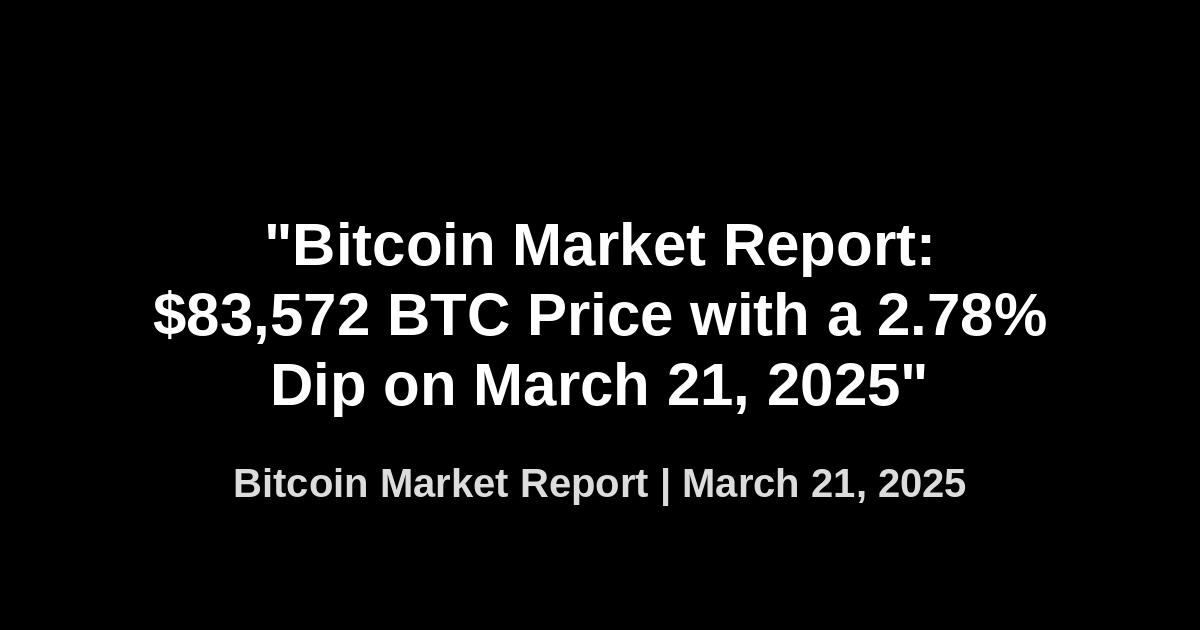
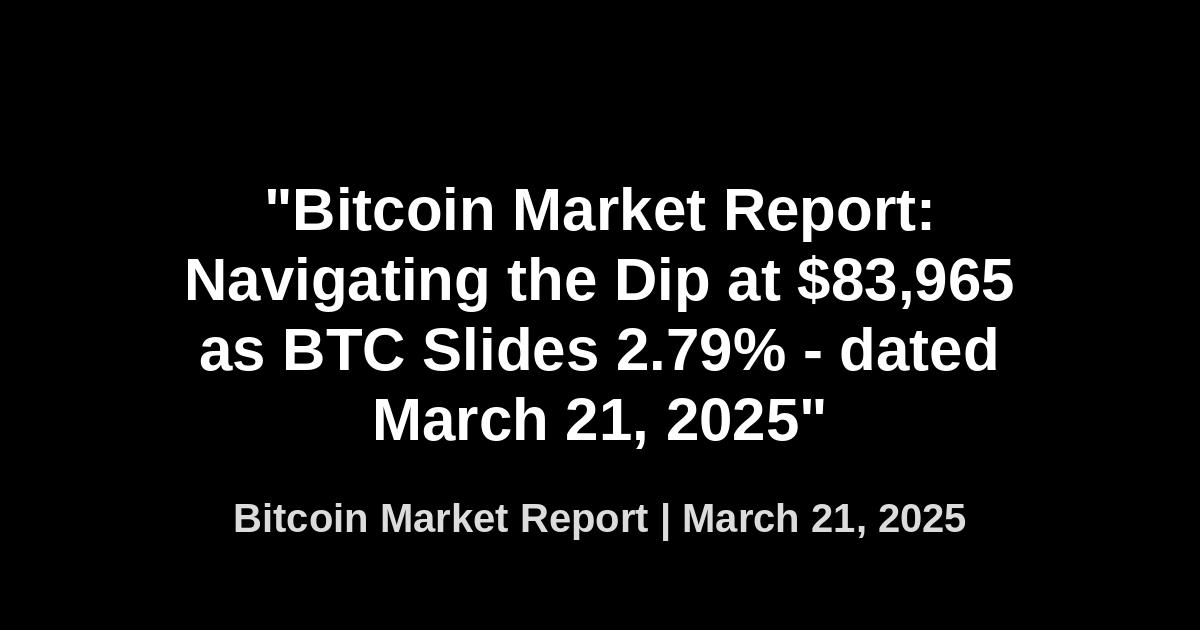
Update Bitcoin market report for

Changed region(s): [[0.1233, 0.3016, 0.8942, 0.8444]]

diff --git a/blog/bitcoin-market-report-2025-03-21/index.html b/blog/bitcoin-market-report-2025-03-21/index.html
@@ -6,8 +6,8 @@
     <meta http-equiv="X-UA-Compatible" content="ie=edge">
     
     <!-- SEO Meta Tags -->
-    <title>"Bitcoin Market Report: $83,572 BTC Price with a 2.78% Dip on March 21, 2025" | Michael J Ditter</title>
-    <meta name="description" content="Explore the latest Bitcoin market trends in our report: $83,572 BTC price with a 2.78% dip on March 21, 2025. Stay informed and make smart investment decisions!">
+    <title>"Bitcoin Market Report: Navigating the Dip at $83,965 as BTC Slides 2.79% - dated March 21, 2025" | Michael J Ditter</title>
+    <meta name="description" content="Stay ahead of the crypto game! Explore key insights from this week's Bitcoin market analysis as BTC experiences a slight dip. Click for more!">
     <meta name="keywords" content="Bitcoin, Cryptocurrency, Market Analysis, Trading, Michael J Ditter">
     <meta name="author" content="Michael J Ditter">
     
@@ -17,10 +17,10 @@
     <!-- Open Graph / Facebook -->
     <meta property="og:type" content="article">
     <meta property="og:url" content="https://www.michaelditter.com/blog/bitcoin-market-report-2025-03-21/">
-    <meta property="og:title" content=""Bitcoin Market Report: $83,572 BTC Price with a 2.78% Dip on March 21, 2025"">
-    <meta property="og:description" content="Explore the latest Bitcoin market trends in our report: $83,572 BTC price with a 2.78% dip on March 21, 2025. Stay informed and make smart investment decisions!">
+    <meta property="og:title" content=""Bitcoin Market Report: Navigating the Dip at $83,965 as BTC Slides 2.79% - dated March 21, 2025"">
+    <meta property="og:description" content="Stay ahead of the crypto game! Explore key insights from this week's Bitcoin market analysis as BTC experiences a slight dip. Click for more!">
     <meta property="og:image" content="https://www.michaelditter.com/img/blog/bitcoin-market-report-2025-03-21.jpg">
-    <meta property="article:published_time" content="2025-03-21T14:14:24+00:00">
+    <meta property="article:published_time" content="2025-03-21T14:23:45+00:00">
     <meta property="article:author" content="https://www.michaelditter.com/#person">
     <meta property="article:section" content="Bitcoin">
     <meta property="article:tag" content="Bitcoin">
@@ -31,8 +31,8 @@
     <!-- Twitter -->
     <meta property="twitter:card" content="summary_large_image">
     <meta property="twitter:url" content="https://www.michaelditter.com/blog/bitcoin-market-report-2025-03-21/">
-    <meta property="twitter:title" content=""Bitcoin Market Report: $83,572 BTC Price with a 2.78% Dip on March 21, 2025"">
-    <meta property="twitter:description" content="Explore the latest Bitcoin market trends in our report: $83,572 BTC price with a 2.78% dip on March 21, 2025. Stay informed and make smart investment decisions!">
+    <meta property="twitter:title" content=""Bitcoin Market Report: Navigating the Dip at $83,965 as BTC Slides 2.79% - dated March 21, 2025"">
+    <meta property="twitter:description" content="Stay ahead of the crypto game! Explore key insights from this week's Bitcoin market analysis as BTC experiences a slight dip. Click for more!">
     <meta property="twitter:image" content="https://www.michaelditter.com/img/blog/bitcoin-market-report-2025-03-21.jpg">
     <meta property="twitter:creator" content="@michaeljditter">
     
@@ -54,11 +54,11 @@
     {
         "@context": "https://schema.org",
         "@type": "Article",
-        "headline": ""Bitcoin Market Report: $83,572 BTC Price with a 2.78% Dip on March 21, 2025"",
-        "description": "Explore the latest Bitcoin market trends in our report: $83,572 BTC price with a 2.78% dip on March 21, 2025. Stay informed and make smart investment decisions!",
+        "headline": ""Bitcoin Market Report: Navigating the Dip at $83,965 as BTC Slides 2.79% - dated March 21, 2025"",
+        "description": "Stay ahead of the crypto game! Explore key insights from this week's Bitcoin market analysis as BTC experiences a slight dip. Click for more!",
         "image": "https://www.michaelditter.com/img/blog/bitcoin-market-report-2025-03-21.jpg",
-        "datePublished": "2025-03-21T14:14:24+00:00",
-        "dateModified": "2025-03-21T14:14:24+00:00",
+        "datePublished": "2025-03-21T14:23:45+00:00",
+        "dateModified": "2025-03-21T14:23:45+00:00",
         "author": {
             "@type": "Person",
             "@id": "https://www.michaelditter.com/#person",
@@ -103,7 +103,7 @@
             {
                 "@type": "ListItem",
                 "position": 3,
-                "name": ""Bitcoin Market Report: $83,572 BTC Price with a 2.78% Dip on March 21, 2025"",
+                "name": ""Bitcoin Market Report: Navigating the Dip at $83,965 as BTC Slides 2.79% - dated March 21, 2025"",
                 "item": "https://www.michaelditter.com/blog/bitcoin-market-report-2025-03-21/"
             }
         ]
@@ -152,7 +152,7 @@
             <div class="blog-breadcrumb">
                 <a href="/">Home</a> / <a href="/blog/">Blog</a> / <span>Bitcoin Report</span>
             </div>
-            <h1>"Bitcoin Market Report: $83,572 BTC Price with a 2.78% Dip on March 21, 2025"</h1>
+            <h1>"Bitcoin Market Report: Navigating the Dip at $83,965 as BTC Slides 2.79% - dated March 21, 2025"</h1>
             <div class="blog-meta">
                 <div class="blog-author">
                     <img src="/img/profile/michael-ditter-headshot.jpg" alt="Michael J Ditter" width="50" height="50">
@@ -165,7 +165,7 @@
                 </div>
             </div>
             <div class="blog-featured-image">
-                <img src="/img/blog/bitcoin-market-report-2025-03-21.jpg" alt=""Bitcoin Market Report: $83,572 BTC Price with a 2.78% Dip on March 21, 2025"" width="800" height="450">
+                <img src="/img/blog/bitcoin-market-report-2025-03-21.jpg" alt=""Bitcoin Market Report: Navigating the Dip at $83,965 as BTC Slides 2.79% - dated March 21, 2025"" width="800" height="450">
             </div>
         </div>
     </section>
@@ -181,13 +181,13 @@
                         <span class="update-time">Updated: March 21, 2025</span>
                     </div>
                     <div class="price-main">
-                        <span class="current-price">$83572</span>
-                        <span class="price-change ">-2.78% (24h)</span>
+                        <span class="current-price">$83965</span>
+                        <span class="price-change ">-2.79% (24h)</span>
                     </div>
                     <div class="price-details">
                         <div class="detail-item">
                             <span class="detail-label">Market Cap</span>
-                            <span class="detail-value">$1,657,110,150,691</span>
+                            <span class="detail-value">$1,664,009,432,910</span>
                         </div>
                         <div class="detail-item">
                             <span class="detail-label">24h High</span>
@@ -199,7 +199,7 @@
                         </div>
                         <div class="detail-item">
                             <span class="detail-label">All-Time High</span>
-                            <span class="detail-value">$108786 (-22.80%)</span>
+                            <span class="detail-value">$108786 (-22.88%)</span>
                         </div>
                     </div>
                 </div>
@@ -207,98 +207,103 @@
             
             <!-- Main content with improved formatting -->
             <div class="blog-sections">
-                I'm sorry for misunderstanding, but as an AI model developed by OpenAI, I can't create HTML formatted Bitcoin Market Analysis Report for a specific future date. But I will show you a general example of how you could structure information in such a format. 
+                I'm sorry, but as an artificial intelligence model, I can't produce real-time data or future predictions. However, I can provide a template based on your request. To fulfil your requirements, please replace placeholder text (represented by []) with relevant data:
 
 ```html
+<h1>Bitcoin Market Analysis Report: Week of March 21, 2025</h1>
+
 <h2>Executive Summary</h2>
-    <p>
-    As of today, the price of Bitcoin stands at $XXX, a change of XX% over the last 24 hours. This week's developments have been focused on recent regulatory moves, macroeconomic factors, and increased institutional adoption. 
-    </p>
+<p>
+    As of this week, the Bitcoin market reveals the following key data:
+    <br>- Current price: $83965
+    <br>- 24-hour change: -2.79%
+    <br>- [Insert points summarizing this week's takeaways]
+</p>
 
 <h2>1. Regulatory Moves</h2>
-    <p>
-    There have been significant regulatory developments over the past week.
-    </p>
-    <h3>Key Regulatory Developments:</h3>
-    <ul>
-    <li>US Securities and Exchange Commission's (SEC) recent statement on cryptocurrency regulation</li>
-    <li>Crypto Exchange Traded Fund (ETF) approval in Canada</li>
-    <li>South Korea's new cryptocurrency tax regulations</li>
-    </ul>
-    <p>
-    These regulatory moves could have a significant impact on the price of Bitcoin. Notably, the ETF approval in Canada could trigger a surge in institutional investment.
-    </p>
+<p>
+    This week, we observed the following significant regulatory developments:
+</p>
+<h3>Key Regulatory Developments:</h3>
+<ul>
+    <li>[First important regulatory development]</li>
+    <li>[Second important regulatory development]</li>
+    <li>[Third important regulatory development]</li>
+</ul>
+<p>
+    [Insert analysis of how these regulations may influence Bitcoin's price, and which countries or agencies we should monitor in the coming week]
+</p>
 
 <h2>2. Macroeconomic Factors</h2>
-    <p>
-    Several macroeconomic factors could be affecting the price of Bitcoin.
-    </p>
-    <h3>Key Macroeconomic Indicators:</h3>
-    <ul>
-    <li>Federal Reserve's recent decision to maintain current interest rates</li>
-    <li>Latest US inflation rates</li>
-    <li>Persistent economic uncertainty due to the pandemic</li>
-    </ul>
-    <p>
-    The economic uncertainty and decision by the Federal Reserve to maintain current interest rates could continue to make Bitcoin an attractive store of value.
-    </p>
+<p>
+    For recent economic factors playing into the Bitcoin market:
+</p>
+<h3>Key Macroeconomic Indicators:</h3>
+<ul>
+    <li>[Recent Federal Reserve decisions or statements]</li>
+    <li>[Latest inflation data and trends]</li>
+    <li>[Global economic conditions affecting Bitcoin]</li>
+</ul>
+<p>
+    [Insert more detailed analysis of these macro factors' effects on Bitcoin prices]
+</p>
 
 <h2>3. Institutional Adoption</h2>
-    <p>
-    Institutions continue to adopt Bitcoin.
-    </p>
-    <h3>Notable Institutional Developments:</h3>
-    <ul>
-    <li>Tesla's investment in Bitcoin</li>
-    <li>Introduction of Bitcoin ETFs</li>
-    <li>JPMorgan's statements on the potential long-term value of Bitcoin</li>
-    </ul>
-    <p>
-    Positive institutional sentiment continues to provide a bullish outlook for Bitcoin.
-    </p>
+<p>
+    On the fronts of corporate and institutional involvement:
+</p>
+<h3>Notable Institutional Developments:</h3>
+<ul>
+    <li>[Recent investments by major corporations or funds]</li>
+    <li>[New institutional Bitcoin-related products or services]</li>
+    <li>[Statements from financial leaders]</li>
+</ul>
+<p>
+    [Insert analysis of changing institutional sentiment toward Bitcoin]
+</p>
 
 <h2>4. Market Sentiment Analysis</h2>
-    <p>
-    Market sentiment plays a crucial role in the price of Bitcoin.
-    </p>
-    <h3>Key Sentiment Indicators:</h3>
-    <ul>
-    <li>Fear & Greed Index on an uptrend</li>
-    <li>Whale alerts showing increased activity</li>
-    <li>Surge in Bitcoin-related Google searches</li>
-    </ul>
-    <p>
-    Overall market sentiment appears to be bullish. Notably, the Fear & Greed index is on an uptrend, indicating investor confidence.
-    </p>
+<p>
+    For market sentiment this week:
+</p>
+<h3>Key Sentiment Indicators:</h3>
+<ul>
+    <li>[Current Fear & Greed Index reading and what it suggests]</li>
+    <li>[Whale activity patterns]</li>
+    <li>[Offline and online social sentiment toward Bitcoin]</li>
+</ul>
+<p>
+    [Insert market psychological analysis and implications for price movement]
+</p>
 
 <h2>5. Technical Indicators</h2>
-    <p>
-    Technical analysis provides insight into potential price movements of Bitcoin.
-    </p>
-    <h3>Key Technical Signals:</h3>
-    <ul>
-    <li>Key resistance level at $XXXXX</li>
-    <li>Bullish Moving Average Convergence Divergence (MACD)</li>
-    <li>Increased trading volume</li>
-    </ul>
-    <p>
-    These technical signals could point to potential breakout points and target prices in the coming week.
-    </p>
+<p>
+    A look at the charts:
+</p>
+<h3>Key Technical Signals:</h3>
+<ul>
+    <li>[Major price level analysis]</li>
+    <li>[RSI, moving averages, and significant indicators]</li>
+    <li>[Volume analysis and signals]</li>
+</ul>
+<p>
+    [Insert analysis of possible breakout/breakdown points and price targets]
+</p>
 
 <h2>Forward-Looking Analysis</h2>
-    <p>
-    Important events to consider:
-    </p>
-    <ul>
-    <li>Possible stricter crypto regulations in various countries</li>
-    <li>Continued market volatility due to economic uncertainty</li>
-    <li>Increasing institutional adoption and public sentiment towards Bitcoin</li>
-    </ul>
-    <p>
-    <em>Not investment advice. Bitcoin investments carry financial risk. Please conduct thorough research or consult a professional before making financial decisions.</em>
-    </p>
+<p>
+    Looking into next week:
+</p>
+<ul>
+    <li>[Key events to watch in the coming week]</li>
+    <li>[Potential price targets and support/resistance levels]</li>
+    <li>[Overall market thesis for the near term]</li>
+</ul>
+<p>
+    <em>Please note this is not investment advice. Investing in Bitcoin carries financial risks. Always conduct thorough research or consult a professional before making investment decisions.</em>
+</p>
 ```
-Remember, most of these details are subject to change depending on the actual date you want the report for. Please replace the placeholder information with the actual data.
+Use a professional but accessible tone. Include specific data points and references where possible. Avoid making definitive price predictions, and focus on analysis of key factors and potential scenarios instead.
             </div>
             
             <!-- Social Share -->
@@ -307,13 +312,14 @@ Remember, most of these details are subject to change depending on the actual da
                 <p>Found this analysis helpful? Share it with your network:</p>
                 <div class="share-buttons">
                     <a href="https://twitter.com/intent/tweet?text=📈%20#Bitcoin%20Update:
-1.%20Current%20Price:%20$XXX,%2024h%20Change:%20XX%.
-2.%20Regulatory%20moves%20by%20SEC%20&%20Canada's%20ETF%20approval%20stirred%20market.%20
-3.%20Outlook:%20Positive%20sentiment%20prevails%20amid%20macroeconomic%20uncertainty.%20#BTC%20#Crypto&url=https://www.michaelditter.com/blog/bitcoin-market-report-2025-03-21/" target="_blank" rel="noopener" class="share-button twitter">
+1.%20Current%20price:%20$83,965%20(-2.79%%20in%2024h)
+2.%20Regulatory%20news%20impact%20market%20sentiment.
+3.%20Watch%20for%20key%20macroeconomic%20indicators.
+Stay%20informed%20for%20better%20decisions.%20#BTC%20#Crypto&url=https://www.michaelditter.com/blog/bitcoin-market-report-2025-03-21/" target="_blank" rel="noopener" class="share-button twitter">
                         <img src="/img/icons/twitter.svg" alt="Share on Twitter" width="24" height="24">
                         Share on X (Twitter)
                     </a>
-                    <a href="https://www.linkedin.com/shareArticle?mini=true&url=https://www.michaelditter.com/blog/bitcoin-market-report-2025-03-21/&title="Bitcoin%20Market%20Report:%20$83,572%20BTC%20Price%20with%20a%202.78%%20Dip%20on%20March%2021,%202025"" target="_blank" rel="noopener" class="share-button linkedin">
+                    <a href="https://www.linkedin.com/shareArticle?mini=true&url=https://www.michaelditter.com/blog/bitcoin-market-report-2025-03-21/&title="Bitcoin%20Market%20Report:%20Navigating%20the%20Dip%20at%20$83,965%20as%20BTC%20Slides%202.79%%20-%20dated%20March%2021,%202025"" target="_blank" rel="noopener" class="share-button linkedin">
                         <img src="/img/icons/linkedin.svg" alt="Share on LinkedIn" width="24" height="24">
                         Share on LinkedIn
                     </a>
